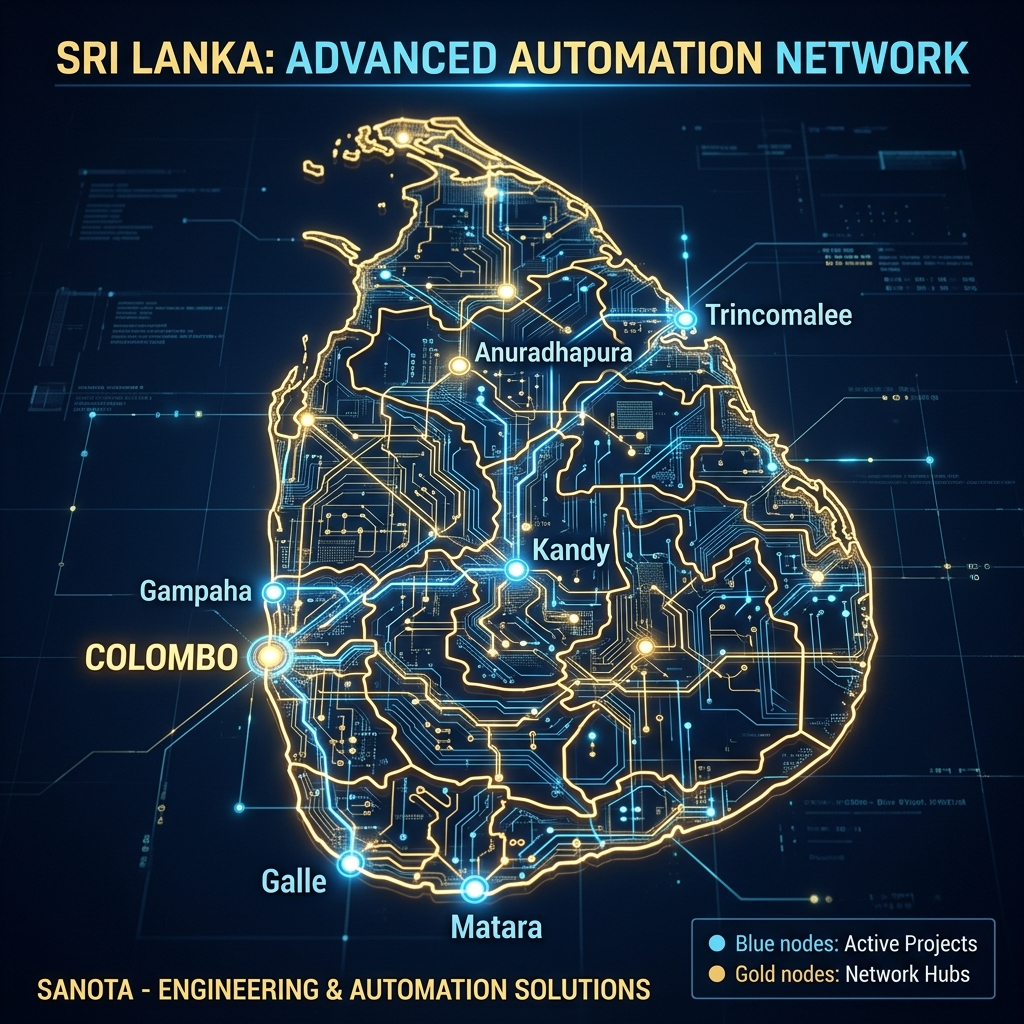
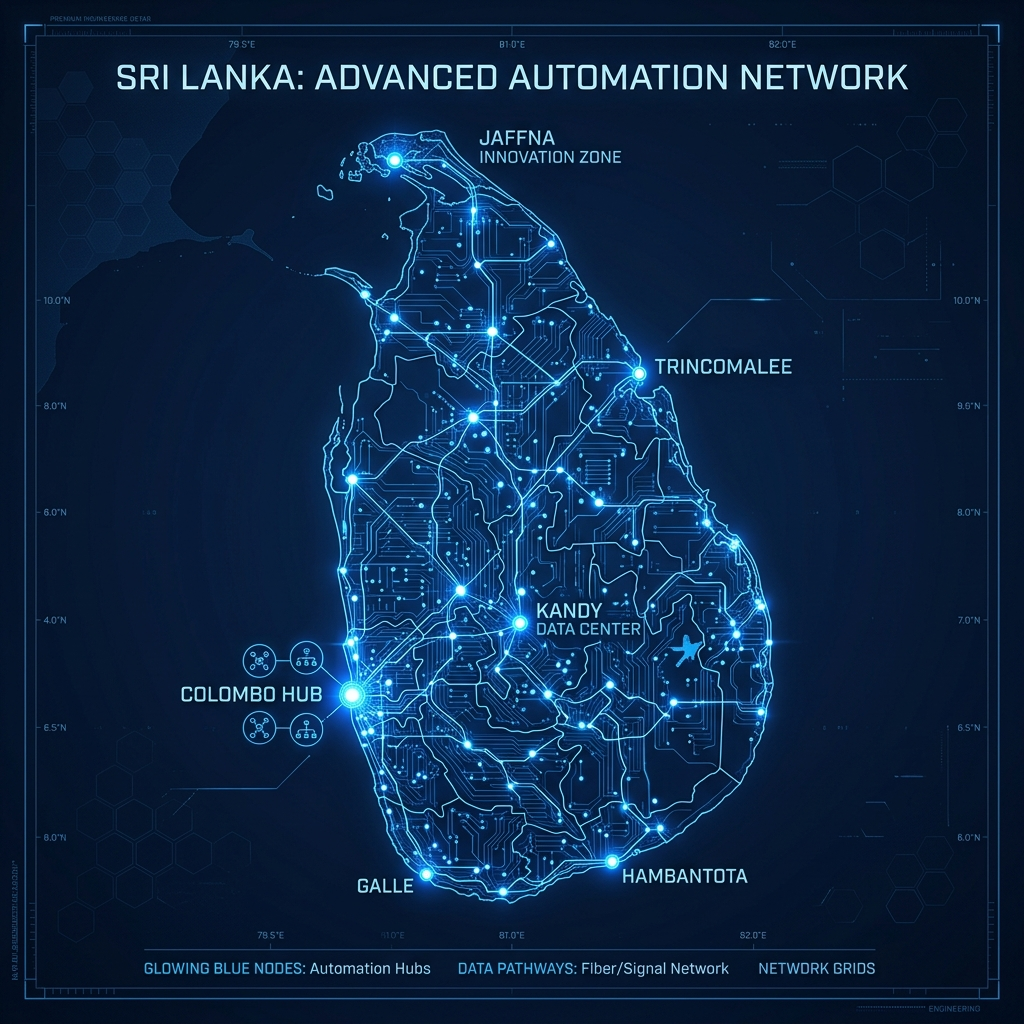
Fix map node positions and remove gold nodes for cleaner all-blue look

diff --git a/src/pages/Home/Home.css b/src/pages/Home/Home.css
@@ -2249,12 +2249,12 @@
 /* Map Pulse Animations */
 .map-pulse {
     position: absolute;
-    width: 12px;
-    height: 12px;
-    background-color: #2233AD;
+    width: 8px;
+    height: 8px;
+    background-color: #4d61ff;
     border-radius: 50%;
     z-index: 5;
-    box-shadow: 0 0 10px #2233AD;
+    box-shadow: 0 0 8px #4d61ff;
 }
 
 .map-pulse::before {
@@ -2265,22 +2265,23 @@
     right: -100%;
     bottom: -100%;
     border-radius: 50%;
-    border: 2px solid #2233AD;
+    border: 2px solid #4d61ff;
     animation: pulseNode 2s ease-out infinite;
 }
 
 .map-pulse::after {
     content: attr(data-city);
     position: absolute;
-    top: -20px;
+    bottom: 12px;
     left: 50%;
     transform: translateX(-50%);
     color: #ffffff;
-    font-size: 0.6rem;
+    font-size: 0.65rem;
     font-weight: 700;
     white-space: nowrap;
     opacity: 0;
     transition: opacity 0.3s ease;
+    text-shadow: 0 0 5px rgba(0,0,0,1);
 }
 
 .map-pulse:hover::after {
@@ -2292,16 +2293,13 @@
     100% { transform: scale(2.5); opacity: 0; }
 }
 
-/* Specific Positions */
-.p-jaffna { top: 5%; left: 45%; }
-.p-anuradhapura { top: 32%; left: 45%; }
-.p-trinco { top: 30%; left: 63%; }
-.p-kuranegala { top: 52%; left: 40%; }
-.p-kandy { top: 62%; left: 48%; }
-.p-colombo { top: 72%; left: 28%; }
-.p-galle { top: 90%; left: 35%; }
-.p-matara { top: 92%; left: 45%; }
-
-.p-colombo, .p-kandy { background-color: #ffd700; box-shadow: 0 0 15px #ffd700; }
-.p-colombo::before, .p-kandy::before { border-color: #ffd700; }
+/* Specific Positions - Adjusted for landmass accuracy */
+.p-jaffna { top: 12%; left: 45%; }
+.p-anuradhapura { top: 35%; left: 48%; }
+.p-trinco { top: 32%; left: 65%; }
+.p-kuranegala { top: 55%; left: 42%; }
+.p-kandy { top: 65%; left: 52%; }
+.p-colombo { top: 75%; left: 32%; }
+.p-galle { top: 90%; left: 40%; }
+.p-matara { top: 92%; left: 50%; }
 
